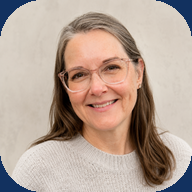
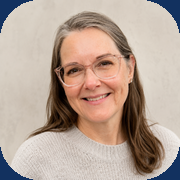
Add files via upload

diff --git a/data.js b/data.js
@@ -1,0 +1,192 @@
+const $ = (sel, root=document) => root.querySelector(sel);
+const $$ = (sel, root=document) => [...root.querySelectorAll(sel)];
+const LS = {
+  get(k, fallback=null){ try { return JSON.parse(localStorage.getItem(k)) ?? fallback; } catch { return fallback; } },
+  set(k, v){ localStorage.setItem(k, JSON.stringify(v)); },
+  remove(k){ localStorage.removeItem(k); }
+};
+const dayOrder = ['monday','tuesday','wednesday','thursday','friday'];
+let currentDay = suggestedDay();
+let sessionStart = Date.now();
+
+function suggestedDay(){
+  const d = new Date().getDay();
+  return {1:'monday',2:'tuesday',3:'wednesday',4:'thursday',5:'friday'}[d] || 'monday';
+}
+function todayKey(){ return new Date().toISOString().slice(0,10); }
+function entryKey(dayId, exId, setNo, field){ return `jp3.entry.${todayKey()}.${dayId}.${exId}.${setNo}.${field}`; }
+function notesKey(dayId){ return `jp3.notes.${todayKey()}.${dayId}`; }
+function doneKey(dayId, exId){ return `jp3.done.${todayKey()}.${dayId}.${exId}`; }
+function history(){ return LS.get('jp3.history', []); }
+function saveHistory(list){ LS.set('jp3.history', list.slice(-500)); }
+function esc(s){ return String(s ?? '').replace(/[&<>"']/g, m=>({'&':'&amp;','<':'&lt;','>':'&gt;','"':'&quot;',"'":'&#39;'}[m])); }
+function mailto(to, subject, body){ window.location.href = `mailto:${encodeURIComponent(to||'')}?subject=${encodeURIComponent(subject)}&body=${encodeURIComponent(body)}`; }
+
+function render(){
+  const root = $('#root');
+  root.innerHTML = `<main class="app">
+    ${hero()}
+    ${tabs()}
+    <div class="layout">
+      <div>${workoutPanel()}${exerciseList()}</div>
+      <aside class="side">${sidePanel()}</aside>
+    </div>
+  </main>
+  ${bottomNav()}
+  ${modal()}
+  <div class="print-only" id="printArea"></div>`;
+  wire(); updateMetrics();
+}
+function hero(){
+  const h = history();
+  const week = workoutsThisWeek(h).length;
+  const total = h.length;
+  const last = h[0]?.date || 'Not yet';
+  return `<section class="hero">
+    <div class="hero-top"><div><div class="version">Jo's Program v${PROGRAM_VERSION} • Personal Training App</div><h1>Strong for Life</h1><p>Set-by-set training log, workout history, email summaries, weekly reports, and coaching notes built specifically for Jo.</p></div><img class="portrait" src="icon-180.png" alt="Jo"></div>
+    <div class="dash">
+      <div class="metric"><b id="mComplete">0%</b><span>today complete</span></div>
+      <div class="metric"><b>${week}/4</b><span>this week</span></div>
+      <div class="metric"><b>${total}</b><span>saved workouts</span></div>
+      <div class="metric"><b>${last}</b><span>last workout</span></div>
+    </div>
+  </section>`;
+}
+function tabs(){ return `<nav class="day-tabs">${dayOrder.map(d=>`<button class="tab ${d===currentDay?'active':''}" data-day="${d}">${WORKOUTS[d].label}</button>`).join('')}</nav>`; }
+function workoutPanel(){
+  const d = WORKOUTS[currentDay];
+  return `<section class="panel">
+    <div class="workout-head"><div><h2>${d.label}: ${d.title}</h2><p>${d.subtitle}</p></div><div class="primary-actions"><button class="btn" id="emailTop">📧 Email Workout</button><button class="btn secondary" id="printTop">📄 PDF / Print</button></div></div>
+    <div class="section-title"><h3>Warm-Up</h3><span class="hint">Practical and easy</span></div><ul class="mini-list">${d.warmup.map(x=>`<li>${esc(x)}</li>`).join('')}</ul>
+  </section>`;
+}
+function exerciseList(){
+  const d = WORKOUTS[currentDay];
+  return `<section class="panel"><div class="section-title"><h3>Main Workout</h3><span class="hint">Every set auto-saves</span></div>${d.exercises.map((ex,i)=>exerciseCard(ex,i+1)).join('')}</section>`;
+}
+function exerciseCard(ex, n){
+  const checked = LS.get(doneKey(currentDay, ex.id), false) ? 'checked' : '';
+  const prev = previousExercise(currentDay, ex.id);
+  return `<article class="workout-card exercise" data-ex="${ex.id}">
+    <div class="exercise-art">${art(ex.type)}</div>
+    <div class="exercise-main">
+      <div class="ex-top"><div class="ex-title"><input class="check ex-done" type="checkbox" ${checked} aria-label="complete ${esc(ex.name)}"><div><h3 class="ex-name">${n}. ${esc(ex.name)}</h3><div class="sub">${esc(ex.sub)}</div></div></div><div class="badges"><div class="badge">${ex.sets}<small>sets</small></div><div class="badge">${esc(ex.reps)}<small>reps</small></div></div></div>
+      <ul class="cue-list">${ex.cues.slice(0,3).map(c=>`<li>${esc(c)}</li>`).join('')}</ul>
+      ${setTable(ex)}
+      <div class="previous"><b>Previous workout:</b> ${prev ? prevSummary(prev, ex) : 'no saved workout yet'}</div>
+      <details class="details"><summary>Exercise Details</summary><div class="detail-body">
+        <div class="detail-box"><h4>📷 Exercise Image</h4>${art(ex.type)}<p class="sub">Visual example only. Use the safest machine/setup available.</p></div>
+        <div class="detail-box"><h4>🎥 Demonstration Video</h4><div class="video-slot">Optional demo video slot<br><small>Use gym trainer guidance or add a trusted video later.</small></div></div>
+        <div class="detail-box"><h4>📝 Coaching Cues</h4><ul>${ex.cues.map(c=>`<li>${esc(c)}</li>`).join('')}</ul></div>
+        <div class="detail-box"><h4>⚠️ Common Mistakes</h4><ul>${ex.mistakes.map(c=>`<li>${esc(c)}</li>`).join('')}</ul></div>
+        <div class="detail-box"><h4>🔄 Alternatives</h4><ul>${ex.alternatives.map(c=>`<li>${esc(c)}</li>`).join('')}</ul></div>
+        <div class="detail-box"><h4>📈 Matt's Tip</h4><p>${esc(ex.tip)}</p></div>
+      </div></details>
+    </div>
+  </article>`;
+}
+function setTable(ex){
+  let rows = '';
+  for(let i=1;i<=ex.sets;i++){
+    const w = LS.get(entryKey(currentDay, ex.id, i, 'weight'), '');
+    const r = LS.get(entryKey(currentDay, ex.id, i, 'reps'), '');
+    const dn = LS.get(entryKey(currentDay, ex.id, i, 'done'), false) ? 'checked' : '';
+    rows += `<div class="set-row"><label>Set ${i}</label><input inputmode="decimal" placeholder="lbs" data-field="weight" data-set="${i}" value="${esc(w)}"><input inputmode="numeric" placeholder="reps" data-field="reps" data-set="${i}" value="${esc(r)}"><div class="done-cell"><input class="small-check" type="checkbox" data-field="done" data-set="${i}" ${dn}></div></div>`;
+  }
+  return `<div class="set-table"><div class="set-head"><div>Set</div><div>Weight</div><div>Reps</div><div>Done</div></div>${rows}</div>`;
+}
+function sidePanel(){
+  const d = WORKOUTS[currentDay];
+  return `<div class="side-card complete-card"><h3>Finish Today's Workout</h3><div class="completion"><div class="progressbar"><div class="progressfill" id="progressfill"></div></div><div id="progressText" class="sub">0 exercises complete</div><button class="btn success big" id="finishBtn">✅ Finish Workout</button><button class="btn big" id="emailSide">📧 Email Today's Workout</button><button class="btn secondary big" id="printSide">📄 Save as PDF / Print</button></div></div>
+  <div class="side-card"><h3>Daily Notes</h3><textarea class="notes" id="dayNotes" placeholder="How did today feel? Knee comfort, energy, wins, anything to remember...">${esc(LS.get(notesKey(currentDay),''))}</textarea></div>
+  <div class="side-card"><h3>Cool-Down</h3><ul class="mini-list">${d.cooldown.map(x=>`<li>${esc(x)}</li>`).join('')}</ul></div>
+  <div class="side-card"><h3>Weekly Report</h3><button class="btn big" id="weeklyEmail">📧 Email Weekly Report</button><div class="history-list" id="weekList">${weekList()}</div></div>
+  <div class="side-card"><h3>History</h3><div class="history-list">${recentHistory()}</div></div>`;
+}
+function weekList(){
+  const wk = workoutsThisWeek(history());
+  if(!wk.length) return '<div class="sub">No workouts saved this week yet.</div>';
+  return wk.map(h=>`<div class="history-item"><b>${esc(h.dayLabel)}</b><br>${esc(h.date)} • ${h.completed}/${h.total} exercises</div>`).join('');
+}
+function recentHistory(){
+  const h = history().slice(0,5);
+  if(!h.length) return '<div class="sub">No saved workouts yet.</div>';
+  return h.map(x=>`<div class="history-item"><b>${esc(x.dayLabel)}</b><br>${esc(x.date)} • ${x.completed}/${x.total} • ${x.volume.toLocaleString()} lbs</div>`).join('');
+}
+function bottomNav(){ return `<nav class="bottom-nav"><div class="bottom-nav-inner">${dayOrder.filter(d=>d!=='wednesday').map(d=>`<button class="navbtn ${d===currentDay?'active':''}" data-day="${d}">${WORKOUTS[d].label}</button>`).join('')}</div></nav>`; }
+function modal(){ return `<div class="modal" id="completeModal"><div class="modal-card"><div class="modal-head"><h2>🎉 Great Job, Jo!</h2><button class="close" id="closeModal">×</button></div><div id="modalBody"></div></div></div>`; }
+function art(type){
+  const base=`<svg viewBox="0 0 120 120" role="img" aria-hidden="true"><rect x="10" y="94" width="100" height="6" rx="3" fill="#d8d2de"/>`;
+  const map={
+    press:`${base}<circle cx="60" cy="38" r="10" fill="#4b257d"/><path d="M60 48v34M38 82h44M42 55h-20M78 55h20" stroke="#25304a" stroke-width="6" stroke-linecap="round"/><path d="M28 55v35M92 55v35" stroke="#b9adc9" stroke-width="6" stroke-linecap="round"/><path d="M40 55l18 10M80 55L62 65" stroke="#8c5bc2" stroke-width="6" stroke-linecap="round"/></svg>`,
+    row:`${base}<circle cx="44" cy="38" r="9" fill="#4b257d"/><path d="M42 48l-10 34h36l-8-24" stroke="#25304a" stroke-width="6" fill="none" stroke-linecap="round"/><path d="M66 58h28" stroke="#8c5bc2" stroke-width="7" stroke-linecap="round"/><path d="M72 48l20 10" stroke="#25304a" stroke-width="5" stroke-linecap="round"/></svg>`,
+    legpress:`${base}<circle cx="34" cy="72" r="8" fill="#536077"/><path d="M38 70l24-24 24 16" stroke="#25304a" stroke-width="7" fill="none" stroke-linecap="round"/><path d="M64 46l28-20M84 64l26-22" stroke="#8c5bc2" stroke-width="7" stroke-linecap="round"/></svg>`,
+    hinge:`${base}<circle cx="55" cy="34" r="9" fill="#4b257d"/><path d="M54 44l16 27M69 71l-22 22M69 71h22" stroke="#25304a" stroke-width="6" fill="none" stroke-linecap="round"/><path d="M42 60h58" stroke="#8c5bc2" stroke-width="5" stroke-linecap="round"/></svg>`,
+    glute:`${base}<circle cx="48" cy="54" r="9" fill="#4b257d"/><path d="M30 76h56M50 62l24 14M30 76l20-14" stroke="#25304a" stroke-width="7" fill="none" stroke-linecap="round"/><path d="M20 76h78" stroke="#b9adc9" stroke-width="5" stroke-linecap="round"/></svg>`,
+    curl_leg:`${base}<circle cx="44" cy="40" r="9" fill="#4b257d"/><path d="M44 50v32h30M75 82l20 10" stroke="#25304a" stroke-width="6" fill="none" stroke-linecap="round"/><path d="M24 82h66" stroke="#b9adc9" stroke-width="6" stroke-linecap="round"/></svg>`,
+    extension:`${base}<circle cx="44" cy="38" r="9" fill="#4b257d"/><path d="M44 48v32h36M80 80h26" stroke="#25304a" stroke-width="6" fill="none" stroke-linecap="round"/><path d="M26 80h58" stroke="#b9adc9" stroke-width="6" stroke-linecap="round"/></svg>`,
+    calf:`${base}<circle cx="58" cy="36" r="9" fill="#4b257d"/><path d="M58 46v36M58 82l-18 16M58 82l24 16" stroke="#25304a" stroke-width="6" fill="none" stroke-linecap="round"/><path d="M38 98h48" stroke="#8c5bc2" stroke-width="6" stroke-linecap="round"/></svg>`,
+    pulldown:`${base}<circle cx="60" cy="52" r="9" fill="#4b257d"/><path d="M30 28h60M60 62v28M42 62l-12-22M78 62l12-22" stroke="#25304a" stroke-width="6" fill="none" stroke-linecap="round"/><path d="M30 28v12M90 28v12" stroke="#8c5bc2" stroke-width="5"/></svg>`,
+    curl:`${base}<circle cx="60" cy="40" r="9" fill="#4b257d"/><path d="M60 50v32M45 64l-14 18M75 64l14 18" stroke="#25304a" stroke-width="6" fill="none" stroke-linecap="round"/><path d="M28 83h18M74 83h18" stroke="#8c5bc2" stroke-width="6" stroke-linecap="round"/></svg>`,
+    triceps:`${base}<circle cx="60" cy="38" r="9" fill="#4b257d"/><path d="M60 48v34M46 58l-18 20M74 58l18 20" stroke="#25304a" stroke-width="6" fill="none" stroke-linecap="round"/><path d="M30 78l-8 12M90 78l8 12" stroke="#8c5bc2" stroke-width="6" stroke-linecap="round"/></svg>`,
+    shoulder:`${base}<circle cx="60" cy="46" r="9" fill="#4b257d"/><path d="M60 56v30M44 66l-22 14M76 66l22 14" stroke="#25304a" stroke-width="6" fill="none" stroke-linecap="round"/><path d="M22 80l-8-8M98 80l8-8" stroke="#8c5bc2" stroke-width="5" stroke-linecap="round"/></svg>`,
+    carry:`${base}<circle cx="60" cy="34" r="9" fill="#4b257d"/><path d="M60 44v40M48 58l-16 24M72 58l16 24M48 84l-12 14M72 84l18 14" stroke="#25304a" stroke-width="6" fill="none" stroke-linecap="round"/><rect x="20" y="80" width="18" height="18" rx="3" fill="#8c5bc2"/><rect x="82" y="80" width="18" height="18" rx="3" fill="#8c5bc2"/></svg>`,
+    walk:`${base}<circle cx="60" cy="36" r="9" fill="#4b257d"/><path d="M60 46v26M60 72l-18 24M60 72l24 24M60 54l-18 8M60 54l18 8" stroke="#25304a" stroke-width="6" fill="none" stroke-linecap="round"/></svg>`,
+    rower:`${base}<circle cx="52" cy="50" r="9" fill="#4b257d"/><path d="M52 60l22 20H34M74 80l22-18M32 88h68" stroke="#25304a" stroke-width="6" fill="none" stroke-linecap="round"/></svg>`
+  };
+  return map[type] || map.press;
+}
+function wire(){
+  $$('[data-day]').forEach(b=>b.addEventListener('click',()=>{ currentDay=b.dataset.day; sessionStart=Date.now(); render(); window.scrollTo({top:0,behavior:'smooth'}); }));
+  $$('.exercise').forEach(card=>{
+    const exId = card.dataset.ex;
+    $('.ex-done',card).addEventListener('change',e=>{ LS.set(doneKey(currentDay,exId),e.target.checked); updateMetrics(); });
+    $$('[data-field]',card).forEach(inp=>inp.addEventListener('input',e=>{ const set=e.target.dataset.set, field=e.target.dataset.field; const val = field==='done' ? e.target.checked : e.target.value; LS.set(entryKey(currentDay,exId,set,field), val); updateMetrics(); }));
+  });
+  $('#dayNotes')?.addEventListener('input',e=>LS.set(notesKey(currentDay),e.target.value));
+  $('#finishBtn').addEventListener('click',finishWorkout);
+  ['emailTop','emailSide'].forEach(id=>$('#'+id).addEventListener('click',()=>emailWorkout(false)));
+  ['printTop','printSide'].forEach(id=>$('#'+id).addEventListener('click',printWorkout));
+  $('#weeklyEmail').addEventListener('click',emailWeeklyReport);
+  $('#closeModal').addEventListener('click',()=>$('#completeModal').classList.remove('show'));
+}
+function updateMetrics(){
+  const d=WORKOUTS[currentDay]; let total=d.exercises.length, done=0;
+  d.exercises.forEach(ex=>{ if(LS.get(doneKey(currentDay,ex.id), false)) done++; });
+  const pct = total ? Math.round(done/total*100) : 0;
+  $('#mComplete').textContent = pct+'%'; $('#progressfill').style.width=pct+'%'; $('#progressText').textContent = `${done} of ${total} exercises complete`;
+}
+function snapshot(){
+  const d=WORKOUTS[currentDay]; const exercises=d.exercises.map(ex=>{ const sets=[]; for(let i=1;i<=ex.sets;i++){ sets.push({set:i, weight:LS.get(entryKey(currentDay,ex.id,i,'weight'),''), reps:LS.get(entryKey(currentDay,ex.id,i,'reps'),''), done:LS.get(entryKey(currentDay,ex.id,i,'done'),false)}); } return {id:ex.id,name:ex.name,sets}; });
+  const completed = d.exercises.filter(ex=>LS.get(doneKey(currentDay,ex.id),false)).length;
+  return {id:crypto.randomUUID ? crypto.randomUUID() : String(Date.now()), date:todayKey(), savedAt:new Date().toLocaleString(), dayId:currentDay, dayLabel:`${d.label}: ${d.title}`, completed, total:d.exercises.length, durationMin:Math.max(1,Math.round((Date.now()-sessionStart)/60000)), volume:calcVolume(exercises), notes:LS.get(notesKey(currentDay),''), exercises};
+}
+function calcVolume(exercises){ let v=0; exercises.forEach(ex=>ex.sets.forEach(s=>{ const w=parseFloat(String(s.weight).replace(/[^0-9.]/g,'')); const r=parseFloat(String(s.reps).replace(/[^0-9.]/g,'')); if(!isNaN(w)&&!isNaN(r)) v+=w*r; })); return Math.round(v); }
+function finishWorkout(){
+  const snap=snapshot(); const h=history(); h.unshift(snap); saveHistory(h);
+  $('#modalBody').innerHTML = `<p><b>${esc(snap.dayLabel)}</b> complete.</p><div class="dash"><div class="metric"><b>${snap.completed}/${snap.total}</b><span>exercises</span></div><div class="metric"><b>${snap.durationMin}</b><span>minutes</span></div><div class="metric"><b>${snap.volume.toLocaleString()}</b><span>lbs volume</span></div><div class="metric"><b>${snap.date}</b><span>date</span></div></div><button class="btn big" id="modalEmail">📧 Email Today's Workout</button><button class="btn secondary big" id="modalPrint">📄 Save as PDF / Print</button>`;
+  $('#completeModal').classList.add('show');
+  $('#modalEmail').addEventListener('click',()=>emailWorkout(true, snap)); $('#modalPrint').addEventListener('click',()=>printWorkout(snap)); render(); $('#completeModal').classList.add('show');
+}
+function previousExercise(dayId, exId){
+  for(const h of history()){ if(h.dayId===dayId){ const ex=h.exercises.find(e=>e.id===exId); if(ex) return {date:h.date, ex}; } } return null;
+}
+function prevSummary(prev){ return `${prev.date}: ` + prev.ex.sets.filter(s=>s.weight||s.reps).map(s=>`Set ${s.set} ${s.weight||'-'} × ${s.reps||'-'}`).join(', '); }
+function workoutText(snap=snapshot()){
+  let lines=[`Jo's Program`, snap.dayLabel, `Date: ${snap.date}`, `Duration: ${snap.durationMin} minutes`, `Completed: ${snap.completed}/${snap.total} exercises`, `Total Volume: ${snap.volume.toLocaleString()} lbs`, ''];
+  snap.exercises.forEach(ex=>{ lines.push(ex.name); ex.sets.forEach(s=>lines.push(`  Set ${s.set}: ${s.weight||'-'} lbs x ${s.reps||'-'} reps ${s.done?'(done)':''}`)); lines.push(''); });
+  if(snap.notes){ lines.push('Daily Notes:', snap.notes, ''); }
+  lines.push('Sent from Jo\'s Program v3.0'); return lines.join('\n');
+}
+function emailWorkout(saveFirst=false, snap=null){ if(saveFirst&&!snap){ snap=snapshot(); const h=history(); h.unshift(snap); saveHistory(h); } snap = snap || snapshot(); mailto('', `Jo's Program - ${snap.dayLabel} - ${snap.date}`, workoutText(snap)); }
+function printWorkout(snap=null){ snap=snap||snapshot(); $('#printArea').innerHTML = `<h1>Jo's Program</h1><h2>${esc(snap.dayLabel)} - ${esc(snap.date)}</h2><p><b>Duration:</b> ${snap.durationMin} minutes &nbsp; <b>Completed:</b> ${snap.completed}/${snap.total} &nbsp; <b>Volume:</b> ${snap.volume.toLocaleString()} lbs</p>${snap.exercises.map(ex=>`<h3>${esc(ex.name)}</h3><table class="print-table"><tr><th>Set</th><th>Weight</th><th>Reps</th><th>Done</th></tr>${ex.sets.map(s=>`<tr><td>${s.set}</td><td>${esc(s.weight||'')}</td><td>${esc(s.reps||'')}</td><td>${s.done?'Yes':''}</td></tr>`).join('')}</table>`).join('')}<h3>Notes</h3><p>${esc(snap.notes||'')}</p>`; window.print(); }
+function workoutsThisWeek(h){ const now=new Date(); const start=new Date(now); start.setDate(now.getDate()-now.getDay()); start.setHours(0,0,0,0); return h.filter(x=>new Date(x.date+'T12:00:00')>=start); }
+function emailWeeklyReport(){
+  const wk=workoutsThisWeek(history());
+  let body=['Jo\'s Program Weekly Report','',`Week ending: ${todayKey()}`,'',`Workouts completed: ${wk.length}`,''];
+  wk.forEach(w=>body.push(`${w.dayLabel} - ${w.date}`,`Completed: ${w.completed}/${w.total}`,`Volume: ${w.volume.toLocaleString()} lbs`, w.notes?`Notes: ${w.notes}`:'',''));
+  if(!wk.length) body.push('No workouts saved this week yet.');
+  mailto('', `Jo's Program Weekly Report - ${todayKey()}`, body.join('\n'));
+}
+if('serviceWorker' in navigator){ window.addEventListener('load',()=>navigator.serviceWorker.register('service-worker.js').catch(()=>{})); }
+render();

diff --git a/service-worker.js b/service-worker.js
@@ -1,13 +1,5 @@
-const CACHE_NAME = "jos-program-v24";
-const ASSETS = ["./", "./index.html", "./manifest.json", "./icon-180.png", "./icon-192.png", "./icon-512.png"];
-self.addEventListener("install", event => { self.skipWaiting(); event.waitUntil(caches.open(CACHE_NAME).then(cache => cache.addAll(ASSETS))); });
-self.addEventListener("activate", event => { event.waitUntil(caches.keys().then(keys => Promise.all(keys.filter(k => k !== CACHE_NAME).map(k => caches.delete(k)))).then(() => self.clients.claim())); });
-self.addEventListener("message", event => { if (event.data && event.data.type === "SKIP_WAITING") self.skipWaiting(); });
-self.addEventListener("fetch", event => {
-  const req = event.request;
-  if (req.mode === "navigate" || req.url.endsWith("index.html")) {
-    event.respondWith(fetch(req).then(res => { const copy = res.clone(); caches.open(CACHE_NAME).then(c => c.put("./index.html", copy)); return res; }).catch(() => caches.match("./index.html")));
-    return;
-  }
-  event.respondWith(caches.match(req).then(cached => cached || fetch(req).then(res => { const copy = res.clone(); caches.open(CACHE_NAME).then(c => c.put(req, copy)); return res; })));
-});
+const CACHE_NAME = 'jos-program-v3-0-clean-build';
+const APP_SHELL = ['./','index.html','styles.css','data.js','app.js','manifest.json','icon-180.png','icon-192.png','icon-512.png'];
+self.addEventListener('install', e => { self.skipWaiting(); e.waitUntil(caches.open(CACHE_NAME).then(c=>c.addAll(APP_SHELL))); });
+self.addEventListener('activate', e => { e.waitUntil(caches.keys().then(keys=>Promise.all(keys.filter(k=>k!==CACHE_NAME).map(k=>caches.delete(k))))); self.clients.claim(); });
+self.addEventListener('fetch', e => { if(e.request.method !== 'GET') return; e.respondWith(fetch(e.request).then(r=>{ const copy=r.clone(); caches.open(CACHE_NAME).then(c=>c.put(e.request,copy)); return r; }).catch(()=>caches.match(e.request).then(r=>r||caches.match('index.html')))); });

diff --git a/styles.css b/styles.css
@@ -1,0 +1,6 @@
+:root{
+  --ink:#182033; --muted:#68708a; --paper:#fbf8f2; --card:#fffdf8; --line:#e7dece; --brand:#4b257d; --brand2:#8c5bc2; --ok:#178a54; --warn:#b45309; --soft:#f4efe7;
+  --shadow:0 16px 40px rgba(34,24,54,.13); --radius:24px;
+}
+*{box-sizing:border-box} html{scroll-behavior:smooth} body{margin:0;font-family:-apple-system,BlinkMacSystemFont,"Segoe UI",Roboto,Arial,sans-serif;background:linear-gradient(180deg,#fff 0%,var(--paper) 28%,#f7f0e5 100%);color:var(--ink);font-size:16px;line-height:1.35;padding-bottom:calc(84px + env(safe-area-inset-bottom));}
+button,input,textarea,select{font:inherit} button{cursor:pointer} .app{max-width:1120px;margin:0 auto;padding:16px 16px 110px}.hero{border-radius:32px;padding:20px;background:linear-gradient(135deg,#4b257d 0%,#7d4db5 62%,#c6a7e6 100%);color:white;box-shadow:var(--shadow);position:relative;overflow:hidden}.hero:after{content:"";position:absolute;inset:auto -20px -70px auto;width:230px;height:230px;border-radius:50%;background:rgba(255,255,255,.16)}.hero-top{display:flex;justify-content:space-between;gap:14px;align-items:center;position:relative;z-index:1}.version{font-size:12px;font-weight:900;letter-spacing:.08em;text-transform:uppercase;opacity:.9}.portrait{width:74px;height:74px;border-radius:22px;object-fit:cover;border:3px solid rgba(255,255,255,.45);box-shadow:0 12px 25px rgba(0,0,0,.18)}.hero h1{font-size:38px;line-height:1;margin:8px 0 4px}.hero p{margin:0;max-width:680px;color:rgba(255,255,255,.88);font-weight:650}.dash{display:grid;grid-template-columns:repeat(4,1fr);gap:12px;margin:16px 0}.metric{background:rgba(255,255,255,.18);border:1px solid rgba(255,255,255,.26);border-radius:22px;padding:14px;backdrop-filter:blur(8px)}.metric b{display:block;font-size:24px}.metric span{font-size:12px;text-transform:uppercase;font-weight:900;opacity:.86}.day-tabs{position:sticky;top:0;z-index:50;background:rgba(251,248,242,.92);backdrop-filter:blur(12px);padding:10px 0;display:flex;gap:8px;overflow:auto}.tab{border:1px solid var(--line);background:white;border-radius:999px;padding:10px 14px;font-weight:900;color:var(--brand);white-space:nowrap}.tab.active{background:var(--brand);color:white;border-color:var(--brand)}.layout{display:grid;grid-template-columns:1fr 320px;gap:16px;align-items:start}.panel,.workout-card,.side-card{background:var(--card);border:1px solid var(--line);border-radius:var(--radius);box-shadow:0 8px 24px rgba(39,29,56,.06)}.panel{padding:18px;margin:14px 0}.workout-head{display:flex;align-items:start;justify-content:space-between;gap:12px}.workout-head h2{font-size:28px;margin:0;color:var(--brand)}.workout-head p{margin:4px 0 0;color:var(--muted);font-weight:700}.primary-actions{display:flex;gap:10px;flex-wrap:wrap;justify-content:flex-end}.btn{border:0;border-radius:16px;padding:12px 15px;font-weight:950;background:var(--brand);color:white;box-shadow:0 8px 18px rgba(75,37,125,.22)}.btn.secondary{background:#fff;color:var(--brand);border:1px solid var(--line);box-shadow:none}.btn.success{background:var(--ok)}.btn.big{width:100%;font-size:18px;padding:16px;margin-top:12px}.mini-list{display:grid;gap:8px;margin:12px 0 0;padding:0;list-style:none}.mini-list li{display:flex;gap:10px;align-items:flex-start;color:#30394f}.mini-list li:before{content:"✓";color:var(--ok);font-weight:900}.section-title{display:flex;justify-content:space-between;align-items:center;margin:8px 0 14px}.section-title h3{margin:0;font-size:21px;color:var(--brand)}.hint{font-size:12px;color:var(--muted);font-weight:900;text-transform:uppercase;letter-spacing:.04em}.exercise{display:grid;grid-template-columns:116px 1fr;overflow:hidden;margin:12px 0}.exercise-art{background:linear-gradient(180deg,#eee8f6,#faf7ef);border-right:1px solid var(--line);display:grid;place-items:center;min-height:170px}.exercise-art svg{width:86px;height:86px;filter:drop-shadow(0 8px 8px rgba(75,37,125,.13))}.exercise-main{padding:16px}.ex-top{display:flex;justify-content:space-between;gap:12px}.ex-title{display:flex;gap:10px;align-items:start}.check{width:26px;height:26px;border:1.8px solid #9aa1b4;border-radius:6px;appearance:none;display:grid;place-items:center;background:white;flex:0 0 auto}.check:checked{background:var(--ok);border-color:var(--ok)}.check:checked:after{content:"✓";color:white;font-weight:900}.ex-name{margin:0;font-size:20px}.sub{color:#59637b;font-weight:800;font-size:13px;margin-top:2px}.badges{display:flex;gap:8px;flex:0 0 auto}.badge{border:1px solid var(--line);background:white;border-radius:16px;min-width:58px;text-align:center;padding:8px 9px;color:var(--brand);font-weight:950}.badge small{display:block;color:#5b637a;font-size:10px;text-transform:uppercase;margin-top:2px}.cue-list{margin:12px 0 0;padding-left:18px;color:#283247}.set-table{margin-top:14px;border:1px solid var(--line);border-radius:18px;overflow:hidden;background:#fff}.set-head,.set-row{display:grid;grid-template-columns:58px 1fr 1fr 74px;gap:8px;align-items:center}.set-head{background:#f5efe5;color:#5f6680;font-size:11px;text-transform:uppercase;font-weight:950;letter-spacing:.05em;padding:10px 12px}.set-row{padding:10px 12px;border-top:1px solid #efe5d6}.set-row label{font-weight:950;color:var(--brand)}.set-row input{width:100%;border:1px solid #ddd5c8;background:white;border-radius:12px;padding:11px 10px}.done-cell{text-align:center}.small-check{width:22px;height:22px;border:1.5px solid #a7adbb;border-radius:6px;appearance:none;background:white}.small-check:checked{background:var(--ok);border-color:var(--ok)}.previous{margin-top:10px;background:#faf6ee;border:1px dashed #d8cbbb;border-radius:16px;padding:10px;font-size:13px;color:#59637b;font-weight:750}.details{margin-top:12px;border:1px solid var(--line);border-radius:18px;overflow:hidden}.details summary{list-style:none;padding:13px 14px;font-weight:950;color:var(--brand);display:flex;justify-content:space-between}.details summary::-webkit-details-marker{display:none}.details summary:after{content:"+";font-size:20px}.details[open] summary:after{content:"−"}.detail-body{padding:0 14px 14px;display:grid;grid-template-columns:repeat(2,1fr);gap:12px}.detail-box{background:#fff;border:1px solid #efe5d6;border-radius:16px;padding:12px}.detail-box h4{margin:0 0 8px;color:var(--brand)}.detail-box ul{margin:0;padding-left:18px}.video-slot{aspect-ratio:16/9;background:linear-gradient(135deg,#32175d,#815bb0);border-radius:14px;color:white;display:grid;place-items:center;text-align:center;font-weight:950;padding:12px}.side{position:sticky;top:72px;display:grid;gap:12px}.side-card{padding:16px}.side-card h3{margin:0 0 10px;color:var(--brand)}.notes{width:100%;min-height:120px;border:1px solid var(--line);border-radius:18px;padding:12px;resize:vertical;background:#fff}.complete-card{background:linear-gradient(135deg,#fff,#f6eee4);border:2px solid #decfbf}.completion{display:grid;gap:10px}.progressbar{height:12px;background:#eee2d2;border-radius:999px;overflow:hidden}.progressfill{height:100%;background:linear-gradient(90deg,var(--ok),#61c08e);width:0%}.history-list{display:grid;gap:8px;font-size:14px}.history-item{border:1px solid var(--line);border-radius:14px;padding:10px;background:white}.bottom-nav{position:fixed;left:0;right:0;bottom:0;z-index:60;background:rgba(255,253,248,.94);backdrop-filter:blur(16px);border-top:1px solid var(--line);display:flex;justify-content:center;padding:8px 10px calc(8px + env(safe-area-inset-bottom))}.bottom-nav-inner{max-width:760px;display:grid;grid-template-columns:repeat(4,1fr);gap:8px;width:100%}.navbtn{border:1px solid var(--line);background:white;color:var(--brand);border-radius:15px;padding:10px 8px;font-weight:950;font-size:12px}.navbtn.active{background:var(--brand);color:white}.modal{position:fixed;inset:0;background:rgba(18,17,28,.7);z-index:100;display:none;align-items:end;padding:18px}.modal.show{display:flex}.modal-card{background:var(--card);border-radius:28px 28px 18px 18px;padding:18px;max-width:760px;width:100%;margin:0 auto;box-shadow:var(--shadow);max-height:86vh;overflow:auto}.modal-head{display:flex;justify-content:space-between;gap:12px;align-items:center}.modal-head h2{margin:0;color:var(--brand)}.close{border:0;background:#f1e8df;color:var(--brand);border-radius:999px;width:40px;height:40px;font-size:22px;font-weight:900}.print-only{display:none}@media(max-width:900px){.layout{grid-template-columns:1fr}.side{position:static}.dash{grid-template-columns:repeat(2,1fr)}.exercise{grid-template-columns:88px 1fr}.exercise-art{min-height:150px}.detail-body{grid-template-columns:1fr}.hero h1{font-size:32px}.primary-actions{justify-content:stretch}.primary-actions .btn{flex:1}.set-head,.set-row{grid-template-columns:46px 1fr 1fr 58px}.app{padding-left:8px;padding-right:8px}.exercise-main{padding:13px}.badges{display:none}}@media(max-width:520px){body{font-size:15px}.exercise{grid-template-columns:1fr}.exercise-art{border-right:0;border-bottom:1px solid var(--line);min-height:105px}.exercise-art svg{width:74px;height:74px}.ex-top{display:block}.ex-name{font-size:18px}.set-head,.set-row{grid-template-columns:40px 1fr 1fr 48px;gap:6px;padding-left:8px;padding-right:8px}.set-row input{padding:10px 7px}.hero-top{align-items:flex-start}.portrait{width:64px;height:64px}.dash{grid-template-columns:1fr 1fr}.metric{padding:12px}.metric b{font-size:20px}}@media print{body{background:white;padding:0}.app,.bottom-nav,.modal{display:none!important}.print-only{display:block!important;padding:24px;font-family:Arial,sans-serif;color:#111}.print-only h1{color:#4b257d}.print-table{width:100%;border-collapse:collapse;margin:12px 0}.print-table th,.print-table td{border:1px solid #ccc;padding:8px;text-align:left}.print-table th{background:#eee}}

diff --git a/README.md b/README.md
@@ -1,14 +1,27 @@
-# Jo's Program v2.3 - Set-by-Set Tracking
+# Jo's Program v3.0 - Clean Build
 
-Upload all files in this folder to the root of the JoProgram GitHub repository.
+Upload all files in this folder to the root of the existing `JoProgram` GitHub repository.
 
-This version is visibly labeled Version 2.3 and includes per-set tracking for each exercise:
+This version is a cleaner, maintainable app structure:
 
-- Set 1 weight / reps / done
-- Set 2 weight / reps / done
-- Set 3 weight / reps / done
-- Additional set rows based on the prescribed set count
-- Previous workout set history
-- Email workout summaries that include all set rows
+- `index.html` - app shell
+- `styles.css` - professional iPhone-style interface
+- `data.js` - workout and exercise content
+- `app.js` - tracking, history, email, print/PDF, weekly report logic
+- `manifest.json` - iPhone/PWA install settings
+- `service-worker.js` - offline cache and update handling
 
-Service worker cache: jos-program-v24.
+## Major features
+
+- true set-by-set tracking for every exercise
+- automatic previous workout history
+- large Email Workout buttons on each workout day
+- Finish Workout flow
+- PDF/print workout summaries
+- weekly report email
+- exercise image gallery-style cards
+- optional demonstration video slots
+- coaching cues, common mistakes, alternatives, and Matt's Tips
+- better cache versioning: `jos-program-v3-0-clean-build`
+
+After upload, wait for GitHub Pages deployment and then hard refresh the app once.